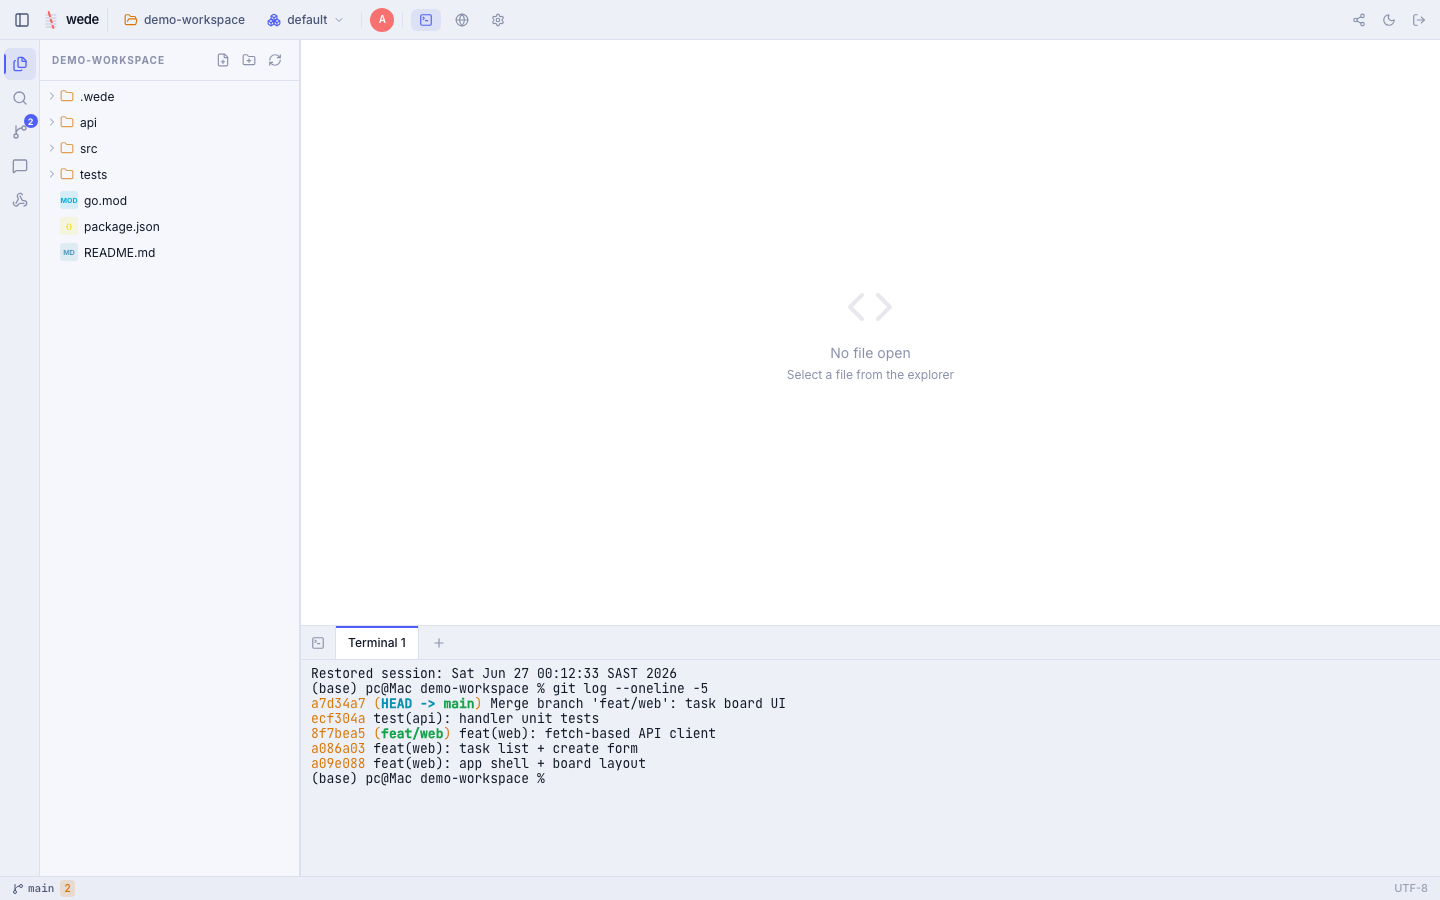
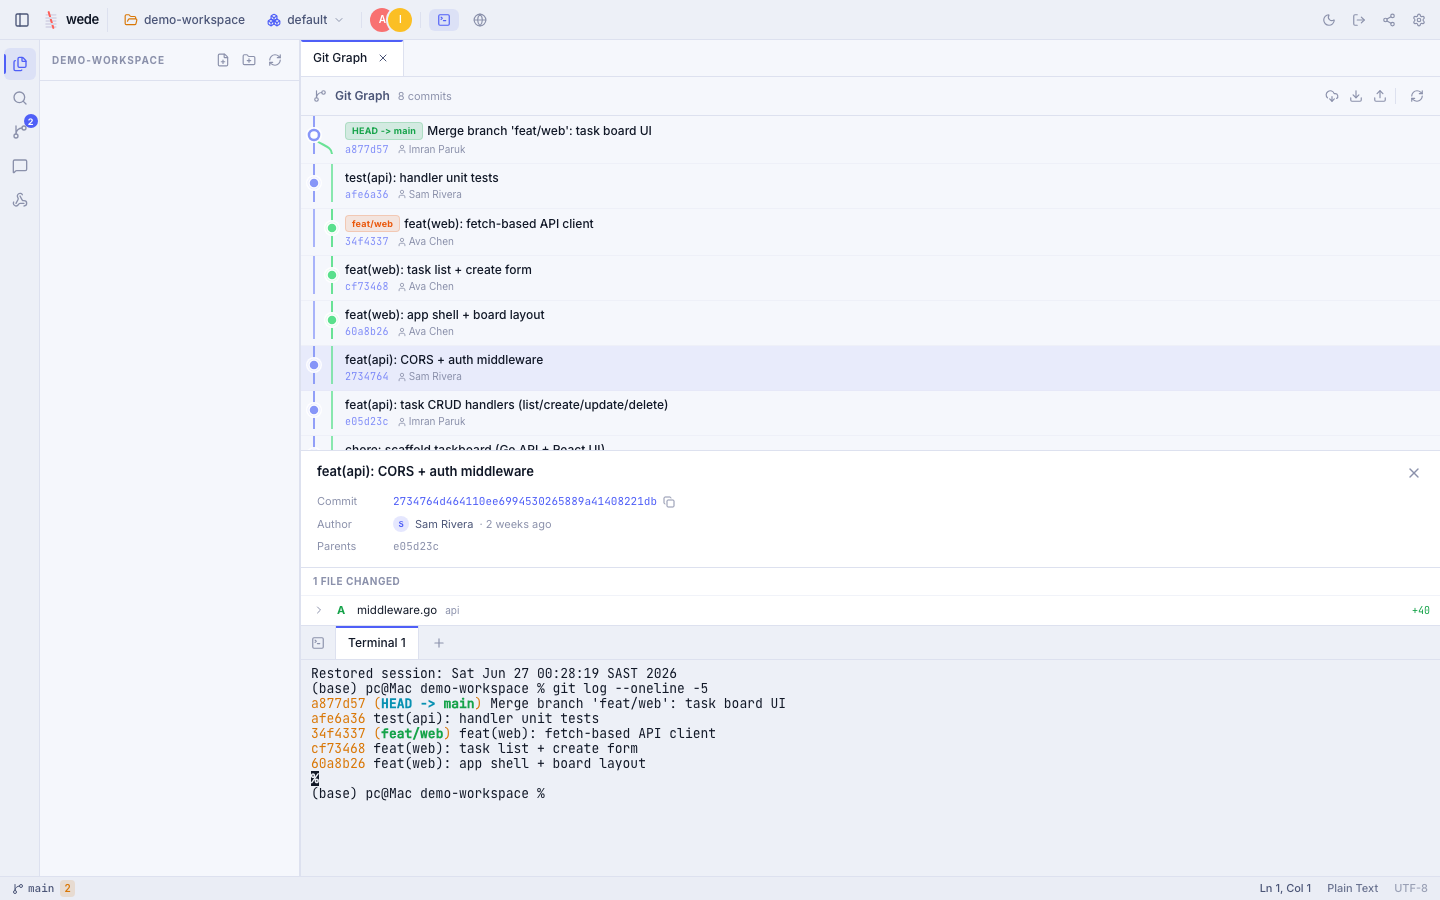
feat(git): VS Code Git-Graph-style commit detail + fix file explorer persistence
- Commit detail panel redesigned like VS Code's Git Graph: message header,
  metadata grid (full hash w/ copy, author avatar + relative date, parents),
  a '<n> files changed' list with status badges (M/A/D) + per-file +/- counts,
  each row expandable to its own diff. Parser splits the unified diff per file
  (ignores the leading commit-header section).
- Fix: the file explorer kept its tree across sidebar-tab switches by staying
  mounted (hidden when inactive) instead of unmounting/reloading.
- Screenshotter opens the graph via the new header icon + clicks a commit.

diff --git a/src/components/GitPanel.jsx b/src/components/GitPanel.jsx
@@ -426,17 +426,35 @@ function GraphRow({ row, nextRow, isLast, onContextMenu, isSelected, onClick }) 
    Commit detail panel (diff for a selected commit)
 ═══════════════════════════════════════════════════ */
 
+// splitDiffByFile breaks a unified diff into per-file sections with +/- counts
+// and a status, so the commit detail can list files like VS Code's Git Graph.
+function splitDiffByFile(diff) {
+  if (!diff) return []
+  return diff.split(/(?=^diff --git )/m).filter((p) => p.startsWith('diff --git')).map((part) => {
+    const m = part.match(/^diff --git a\/(.+?) b\/(.+)$/m)
+    const path = m ? m[2].trim() : '(file)'
+    let add = 0, del = 0, status = 'modified'
+    for (const line of part.split('\n')) {
+      if (/^new file mode/.test(line)) status = 'added'
+      else if (/^deleted file mode/.test(line)) status = 'deleted'
+      else if (/^rename (from|to) /.test(line)) status = 'renamed'
+      else if (line.startsWith('+') && !line.startsWith('+++')) add++
+      else if (line.startsWith('-') && !line.startsWith('---')) del++
+    }
+    return { path, add, del, status, diff: part }
+  })
+}
+
 function CommitDetail({ commit, authFetch, onClose }) {
   const [data, setData] = useState(null)
   const [loading, setLoading] = useState(true)
-  const [expandedFile, setExpandedFile] = useState(null)
+  const [expanded, setExpanded] = useState(null)
+  const [copied, setCopied] = useState(false)
 
   /* eslint-disable react-hooks/set-state-in-effect */
   useEffect(() => {
     if (!commit) return
-    setLoading(true)
-    setData(null)
-    setExpandedFile(null)
+    setLoading(true); setData(null); setExpanded(null)
     authFetch(`/api/git/commit-diff?hash=${encodeURIComponent(commit.hash)}`)
       .then((r) => r.json())
       .then((d) => { setData(d); setLoading(false) })
@@ -446,58 +464,84 @@ function CommitDetail({ commit, authFetch, onClose }) {
 
   if (!commit) return null
 
-  const diffLines = parseDiff(data?.diff || '')
+  const files = splitDiffByFile(data?.diff || '')
+  const parents = (commit.parents || []).map((p) => p.slice(0, 7)).join(', ')
+  const copyHash = () => { navigator.clipboard?.writeText(commit.hash || commit.short); setCopied(true); setTimeout(() => setCopied(false), 1500) }
 
   return (
-    <div className="border-t border-border bg-bg-primary flex flex-col" style={{ maxHeight: '55%' }}>
-      <div className="flex items-center gap-2 px-3 py-2 border-b border-border shrink-0">
-        <span className="font-mono text-[10px] text-accent bg-accent/10 px-1.5 py-0.5 rounded font-semibold shrink-0">{commit.short}</span>
-        <span className="text-[11px] text-text-secondary truncate flex-1">{commit.message}</span>
-        <button onClick={onClose}
-          className="p-0.5 rounded text-text-muted hover:text-text-primary hover:bg-bg-hover transition-colors shrink-0">
-          <X className="w-3.5 h-3.5" />
-        </button>
+    <div className="border-t border-border bg-bg-primary flex flex-col" style={{ maxHeight: '62%' }}>
+      {/* Commit metadata */}
+      <div className="px-4 py-3 border-b border-border shrink-0">
+        <div className="flex items-start gap-2">
+          <p className="flex-1 text-[13px] font-semibold text-text-primary leading-snug break-words">{commit.message}</p>
+          <button onClick={onClose} className="p-0.5 rounded text-text-muted hover:text-text-primary hover:bg-bg-hover transition-colors shrink-0">
+            <X className="w-4 h-4" />
+          </button>
+        </div>
+        <div className="mt-2.5 grid grid-cols-[64px_1fr] gap-x-3 gap-y-1.5 text-[11px]">
+          <span className="text-text-muted">Commit</span>
+          <span className="font-mono text-accent flex items-center gap-1.5 min-w-0">
+            <span className="truncate">{commit.hash || commit.short}</span>
+            <button onClick={copyHash} title="Copy hash" className="shrink-0 text-text-muted hover:text-text-primary">
+              {copied ? <Check className="w-3 h-3 text-green" /> : <Copy className="w-3 h-3" />}
+            </button>
+          </span>
+          <span className="text-text-muted">Author</span>
+          <span className="text-text-secondary flex items-center gap-1.5 min-w-0">
+            <span className="w-4 h-4 rounded-full bg-accent/15 text-accent flex items-center justify-center text-[8px] font-bold shrink-0">
+              {(commit.author || '?')[0].toUpperCase()}
+            </span>
+            <span className="truncate">{commit.author}</span>
+            <span className="text-text-muted shrink-0">· {commit.date}</span>
+          </span>
+          {parents && (<>
+            <span className="text-text-muted">Parents</span>
+            <span className="font-mono text-text-muted truncate">{parents}</span>
+          </>)}
+        </div>
       </div>
 
+      {/* Changed files */}
       <div className="overflow-y-auto flex-1 min-h-0">
         {loading && (
           <div className="flex items-center justify-center py-8 gap-2 text-text-muted">
             <RefreshCw className="w-3.5 h-3.5 animate-spin" />
-            <span className="text-[12px]">Loading diff…</span>
+            <span className="text-[12px]">Loading changes…</span>
           </div>
         )}
-
-        {!loading && data && (
+        {!loading && (
           <>
-            {data.files && data.files.length > 0 && (
-              <div className="border-b border-border/40 py-1">
-                {data.files.map((f, i) => (
-                  <button
-                    key={i}
-                    onClick={() => setExpandedFile(expandedFile === f ? null : f)}
-                    className="w-full flex items-center gap-2 px-3 py-1 hover:bg-bg-hover transition-colors text-left"
-                  >
-                    {expandedFile === f
-                      ? <EyeOff className="w-3 h-3 text-text-muted shrink-0" />
-                      : <Eye className="w-3 h-3 text-text-muted shrink-0" />
-                    }
-                    <span className="text-[11px] text-text-secondary truncate font-mono">{f}</span>
-                  </button>
-                ))}
-              </div>
+            <div className="px-3 py-1.5 text-[10px] font-bold uppercase tracking-wider text-text-muted border-b border-border/40 sticky top-0 bg-bg-primary z-10">
+              {files.length} file{files.length !== 1 ? 's' : ''} changed
+            </div>
+            {files.length === 0 && (
+              <div className="flex items-center justify-center py-6 text-text-muted text-[11px]">No file changes</div>
             )}
-
-            {diffLines.length > 0 ? (
-              <div className="bg-bg-secondary border-border/30">
-                <DiffViewer lines={diffLines} />
-              </div>
-            ) : (
-              !loading && (
-                <div className="flex items-center justify-center py-6 text-text-muted">
-                  <span className="text-[11px]">No diff available</span>
+            {files.map((f) => {
+              const meta = STATUS_META[f.status] || STATUS_META.modified
+              const filename = f.path.split('/').pop()
+              const dir = f.path.includes('/') ? f.path.slice(0, f.path.lastIndexOf('/')) : ''
+              const open = expanded === f.path
+              return (
+                <div key={f.path} className="border-b border-border/30 last:border-0">
+                  <button onClick={() => setExpanded(open ? null : f.path)}
+                    className={`w-full flex items-center gap-2 pl-3 pr-2.5 py-1.5 hover:bg-bg-hover transition-colors text-left ${open ? 'bg-bg-hover/60' : ''}`}>
+                    {open ? <ChevronDown className="w-3 h-3 text-text-muted shrink-0" /> : <ChevronRight className="w-3 h-3 text-text-muted shrink-0" />}
+                    <span className={`w-4 text-center text-[11px] font-bold shrink-0 ${meta.color}`}>{meta.label}</span>
+                    <span className="text-[11.5px] text-text-primary truncate">{filename}</span>
+                    {dir && <span className="text-[10px] text-text-muted truncate min-w-0">{dir}</span>}
+                    <div className="flex-1" />
+                    {f.add > 0 && <span className="text-[10px] font-mono text-green shrink-0">+{f.add}</span>}
+                    {f.del > 0 && <span className="text-[10px] font-mono text-red shrink-0">−{f.del}</span>}
+                  </button>
+                  {open && (
+                    <div className="bg-bg-secondary">
+                      <DiffViewer lines={parseDiff(f.diff)} />
+                    </div>
+                  )}
                 </div>
               )
-            )}
+            })}
           </>
         )}
       </div>

diff --git a/src/components/IDE.jsx b/src/components/IDE.jsx
@@ -967,7 +967,10 @@ export default function IDE({ token, authFetch, onLogout, workspace, recents, on
         {showSidebar && (
           <>
             <div style={{ width: sidebarWidth }} className="shrink-0 flex flex-col border-r border-border overflow-hidden bg-bg-secondary">
-              {sidebarTab === 'files' && <FileExplorer authFetch={authFetch} onFileSelect={openFile} selectedPath={activeTab} workspace={workspace} onRegisterActions={handleRegisterExplorerActions} roster={collabRoster} />}
+              {/* File explorer stays mounted (hidden when inactive) so its tree + expansion persist across tab switches. */}
+              <div className={`flex-1 min-h-0 ${sidebarTab === 'files' ? 'flex flex-col' : 'hidden'}`}>
+                <FileExplorer authFetch={authFetch} onFileSelect={openFile} selectedPath={activeTab} workspace={workspace} onRegisterActions={handleRegisterExplorerActions} roster={collabRoster} />
+              </div>
               {sidebarTab === 'search' && <SearchPanel authFetch={authFetch} readOnly={role === 'viewer'} onOpenFile={(entry, line) => {
                 openFile(entry).then?.(() => {
                   // targetLine is used by Editor to scroll to the match.
